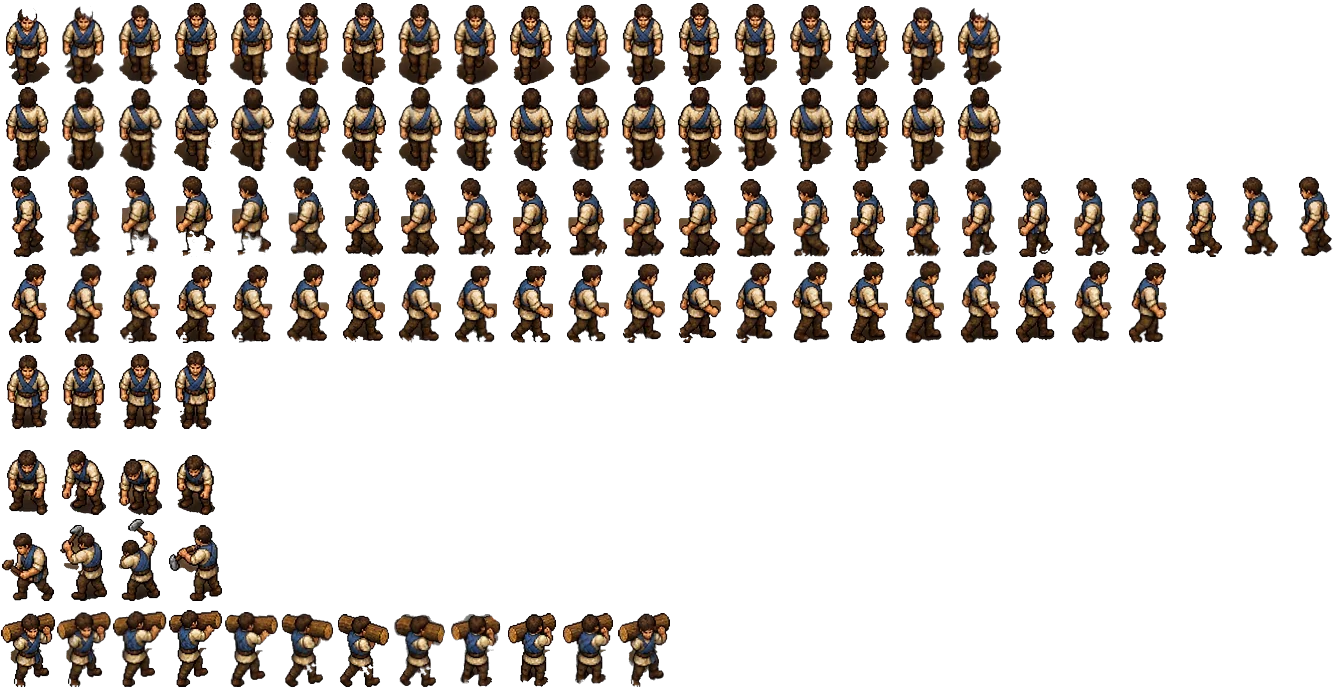
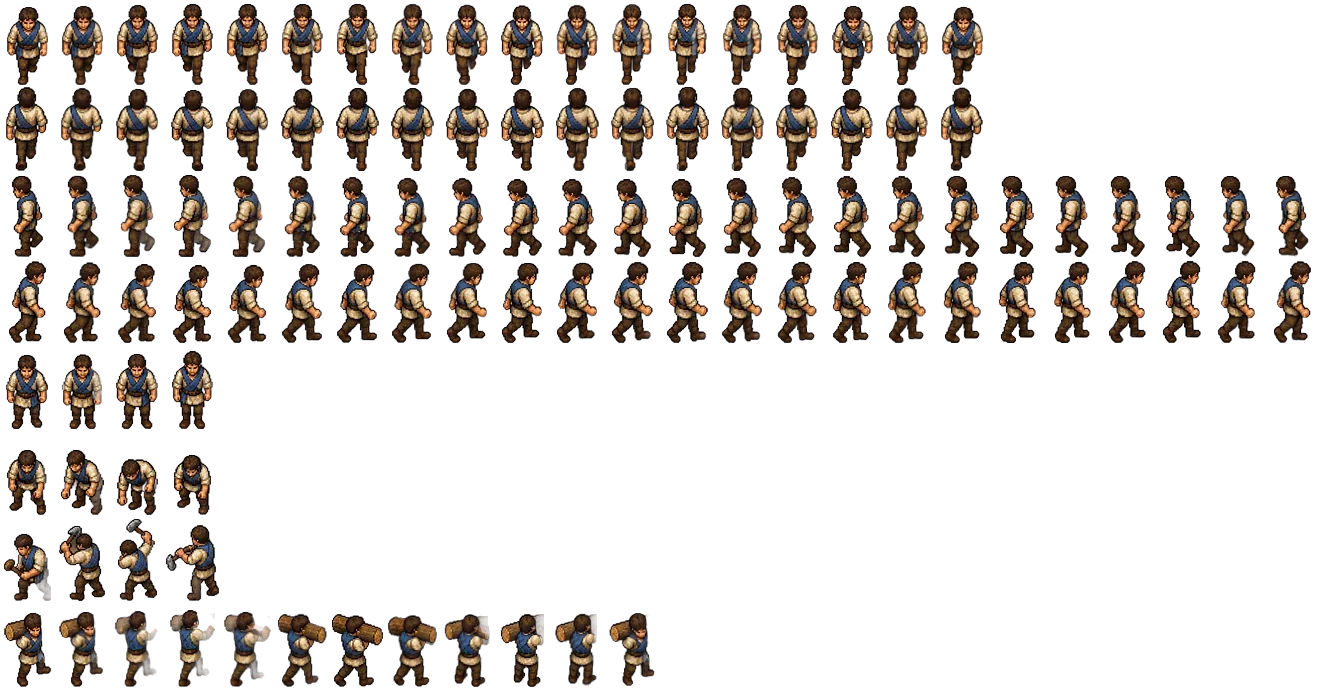
Le villageois redétouré par rembg, sans trou
Le détourage maison de la planche (croissance de région, surface ajustée
au fond) laissait des trous et des zones mal reprises : pantalons rongés,
jambes coupées, une pose de profil réduite à sa chemise. Il est refait
par rembg (modèle IS-Net, sur processeur) : une passe par personnage sur
un recadrage centré sur son ancienne boîte, agrandi ×2, dont on ne garde
que les composantes du matte qui recouvrent la boîte. Les quarante-huit
images sont entières, le matte est doux ; l'ombre peinte sous les pieds,
qui appartenait au halo, n'est plus reprise.

L'atlas est reconstruit sur ce détourage (cases de 55×86) puis interpolé
par RIFE comme avant : 18 images de face et de dos, 24 de profil (les
huit poses servent, plus de fantôme à écarter), 12 pour la marche
chargée. Cache du service worker v32, SOURCES.md et README à jour.

Claude-Session: https://claude.ai/code/session_017pymgmNLfxNmwW4ryo7pgs

Changed region(s): [[0.0, 0.0, 0.9939, 0.641], [0.0, 0.6715, 0.497, 1.0]]

diff --git a/jeu/js/sprites.js b/jeu/js/sprites.js
@@ -94,16 +94,16 @@ const ATLAS = {
   // Renderer.poseDe). Debout, 40 px : un peu moins que le chevalier.
   villager: {
     src: 'assets/villageois.webp',
-    cellW: 56, cellH: 86, cases: 4, images: 24, cycle: 36,
+    cellW: 55, cellH: 86, cases: 4, images: 24, cycle: 36,
     lignes: [0, 3, 1, 2],
     // Les huit foulées de la planche n'alternent pas les pieds (de face :
-    // droit, droit, puis quatre fois le gauche) et l'une d'elles, de profil,
-    // est un fantôme du matting. Mesurées image par image, on retient six à
-    // huit poses par rangée dans l'ordre d'une vraie marche, puis RIFE
-    // intercale deux pas entre chaque paire (voir SOURCES.md, « Des pas
-    // intermédiaires ») : la rangée joue ses images dans l'ordre, la
-    // première étant la foulée neutre où le villageois s'arrête.
-    sequences: { 0: suite(18), 1: suite(18), 2: suite(24), 3: suite(21) },
+    // droit, droit, puis quatre fois le gauche). Mesurées image par image,
+    // on retient six poses de face et de dos dans l'ordre d'une vraie marche,
+    // les huit de profil dans l'ordre le plus lisse, puis RIFE intercale deux
+    // pas entre chaque paire (voir SOURCES.md, « Des pas intermédiaires ») :
+    // la rangée joue ses images dans l'ordre, la première étant la foulée
+    // neutre où le villageois s'arrête.
+    sequences: { 0: suite(18), 1: suite(18), 2: suite(24), 3: suite(24) },
     poses: {
       repos: { ligne: 4, images: 4, cadence: 2.5 },
       cueillir: { ligne: 5, images: 4, cadence: 5, sens: -1 },

diff --git a/jeu/sw.js b/jeu/sw.js
@@ -1,5 +1,5 @@
 // Service worker : le jeu reste jouable hors ligne une fois chargé.
-const CACHE = 'age-empires-mobile-v31';
+const CACHE = 'age-empires-mobile-v32';
 const ASSETS = [
   './',
   './index.html',

diff --git a/jeu/assets/SOURCES.md b/jeu/assets/SOURCES.md
@@ -10,7 +10,7 @@
 | `cerf.webp` | Le **cerf** : cinq rangées (sud, sud-est, est, nord-est, nord) de quatre foulées, les trois de l'ouest en miroir, pas remis en ordre de face et de dos | Planche générée par l'auteur du dépôt, fond noir dé-prémultiplié |
 | `cochon.webp` | Le **cochon** : cinq rangées (sud, sud-est, est, nord-est, nord) de quatre foulées, les trois de l'ouest en miroir, pas remis en balancier | Planche générée par l'auteur du dépôt, fond gris uni |
 | `decor.webp` | Le **décor de la carte** : 97 pièces — amas de rochers, rochers, roseaux, touffes sèches, pampas, touffes d'herbe, buissons fleuris, fougères, couvre-sol, agaves, nénuphars, fleurs en quatre couleurs, galets — de tailles diverses dans un atlas à 2×, table dans `js/decor-pieces.js` | Découpées dans les planches d'eau, la planche d'arbres et la planche d'ornements de l'auteur du dépôt (voir plus bas) |
-| `villageois.webp` | Le **villageois** : marche en quatre orientations × huit pas, puis repos, cueillir, construire, porter (quatre images chacune), 56×86 par case | Planche générée par l'auteur du dépôt, fond dégradé retiré en deux passes (voir plus bas) |
+| `villageois.webp` | Le **villageois** : marche en quatre orientations × huit pas, puis repos, cueillir, construire, porter (quatre images chacune), 55×86 par case, pas intermédiaires interpolés | Planche générée par l'auteur du dépôt, fond dégradé retiré par rembg (voir plus bas) |
 | `eclaireur.webp` | L'**éclaireur** : cavalier à la lance, huit orientations × quatre foulées, 106×111 par case | Planche générée par l'auteur du dépôt, livrée avec sa transparence |
 | `centre-ville.webp` | Le **Centre-Ville** : palais à dômes bleus sur son parvis, 344×343, dessiné sur 172 px pour une emprise de 96 | Illustration générée par l'auteur du dépôt, fond plat retiré |
 | `caserne.webp` | La **caserne** : enceinte crénelée, cour d'entraînement, deux tours à dôme, 316×315, dessinée sur 158 px | Illustration générée par l'auteur du dépôt, même chaîne que le Centre-Ville |
@@ -127,8 +127,8 @@ quatre orientations seulement : en diagonale, l'unité prend la cardinale la
 plus proche.
 
 Le fond n'était ni uni ni transparent : un dégradé sombre, un halo clair
-derrière chaque personnage, des légendes. Il part en deux passes
-(`analyse-villageois.py`, `matte-villageois.py`) :
+derrière chaque personnage, des légendes. Une première chaîne maison
+(`analyse-villageois.py`, `matte-villageois.py`) le retirait en deux passes :
 
 1. **Croissance de région** depuis les bords, avec un seuil (7 niveaux) sur la
    différence entre pixels *voisins* : le dégradé et le halo sont doux, le
@@ -142,9 +142,21 @@ derrière chaque personnage, des légendes. Il part en deux passes
    pas, on y ramassait une ombre derrière les épaules. Fermeture de 2 px, trous
    bouchés. Cinquante-six mille pixels regagnés.
 
+Il en restait des **trous et des zones mal reprises** : pantalons rongés,
+jambes coupées, une pose de profil réduite à sa chemise, des bouts de fond
+gardés. Le détourage est refait par **rembg** (modèle IS-Net, réseau de
+segmentation d'objet saillant, licence MIT, sur processeur) : une passe par
+personnage sur un recadrage centré sur son ancienne boîte, agrandi ×2, dont on
+ne garde que les composantes du matte qui recouvrent la boîte — les voisins
+qui dépassent dans le recadrage sont écartés (`rematte-villageois.py`). Le
+matte est doux (anticrénelage conservé) et sans trou ; l'ombre portée peinte
+sous les pieds, qui appartenait au halo, n'est plus reprise — le socle aux
+couleurs du joueur tient ce rôle.
+
 Chaque image est posée au bas de sa case, centrée ; un villageois debout fait
 **40 px monde** (le chevalier : 44), atlas à 2× avec le même peps que les
-bâtiments : 448×688, **90 Ko**. La couleur d'équipe est celle du chevalier —
+bâtiments : 440×688 avant interpolation (cases de 55×86), **99 Ko** ; 1320×688 et
+**226 Ko** avec les pas intermédiaires. La couleur d'équipe est celle du chevalier —
 l'écharpe bleue bascule, la peau, le cuir et la chemise restent ; le test le
 vérifie sur 14 440 pixels de peau.
 
@@ -173,12 +185,11 @@ v4.6, tourne sur processeur via lavapipe). Couleur et transparence sont
 interpolées séparément : la couleur composée sur gris moyen, l'alpha en
 niveaux de gris, puis les deux sont recombinés ; les images sont rembourrées
 à un multiple de 32 px, sans quoi le binaire écrit de travers. Avant cela,
-les miettes détachées du matting sont effacées et la pose fantôme de la
-rangée est (image 1) écartée ; les rangées de profil sont remises dans
-l'ordre le plus lisse (cycle de moindre écart entre images successives,
-départ pieds joints). Résultat : S et N 18 images, O 24, E 21, et la
-marche chargée (« porter ») 12 ; repos, cueillir et construire restent à
-quatre. Atlas 24 colonnes × 8 rangées de 56×86.
+les miettes détachées sont effacées et les rangées de profil sont remises
+dans l'ordre le plus lisse (cycle de moindre écart entre images successives,
+départ pieds joints). Résultat : S et N 18 images, O et E 24, et la marche
+chargée (« porter ») 12 ; repos, cueillir et construire restent à quatre.
+Atlas 24 colonnes × 8 rangées de 55×86.
 
 ## L'éclaireur
 

diff --git a/jeu/README.md b/jeu/README.md
@@ -363,7 +363,7 @@ point n'est pas joignable du tout, n'importe quel côté fait l'affaire avant de
 condamner la case. Le point choisi est sauvegardé avec l'unité : une partie
 reprise le garde.
 
-**Le villageois travaille pour de vrai** (`villageois.webp`, 90 Ko) : quatre
+**Le villageois travaille pour de vrai** (`villageois.webp`, 226 Ko) : quatre
 orientations de marche × huit pas, et quatre poses de quatre images — repos,
 cueillir, construire, porter. La pose suit l'état de la simulation : devant des
 baies ou une ferme il cueille, devant un arbre, un gisement, un chantier ou un
